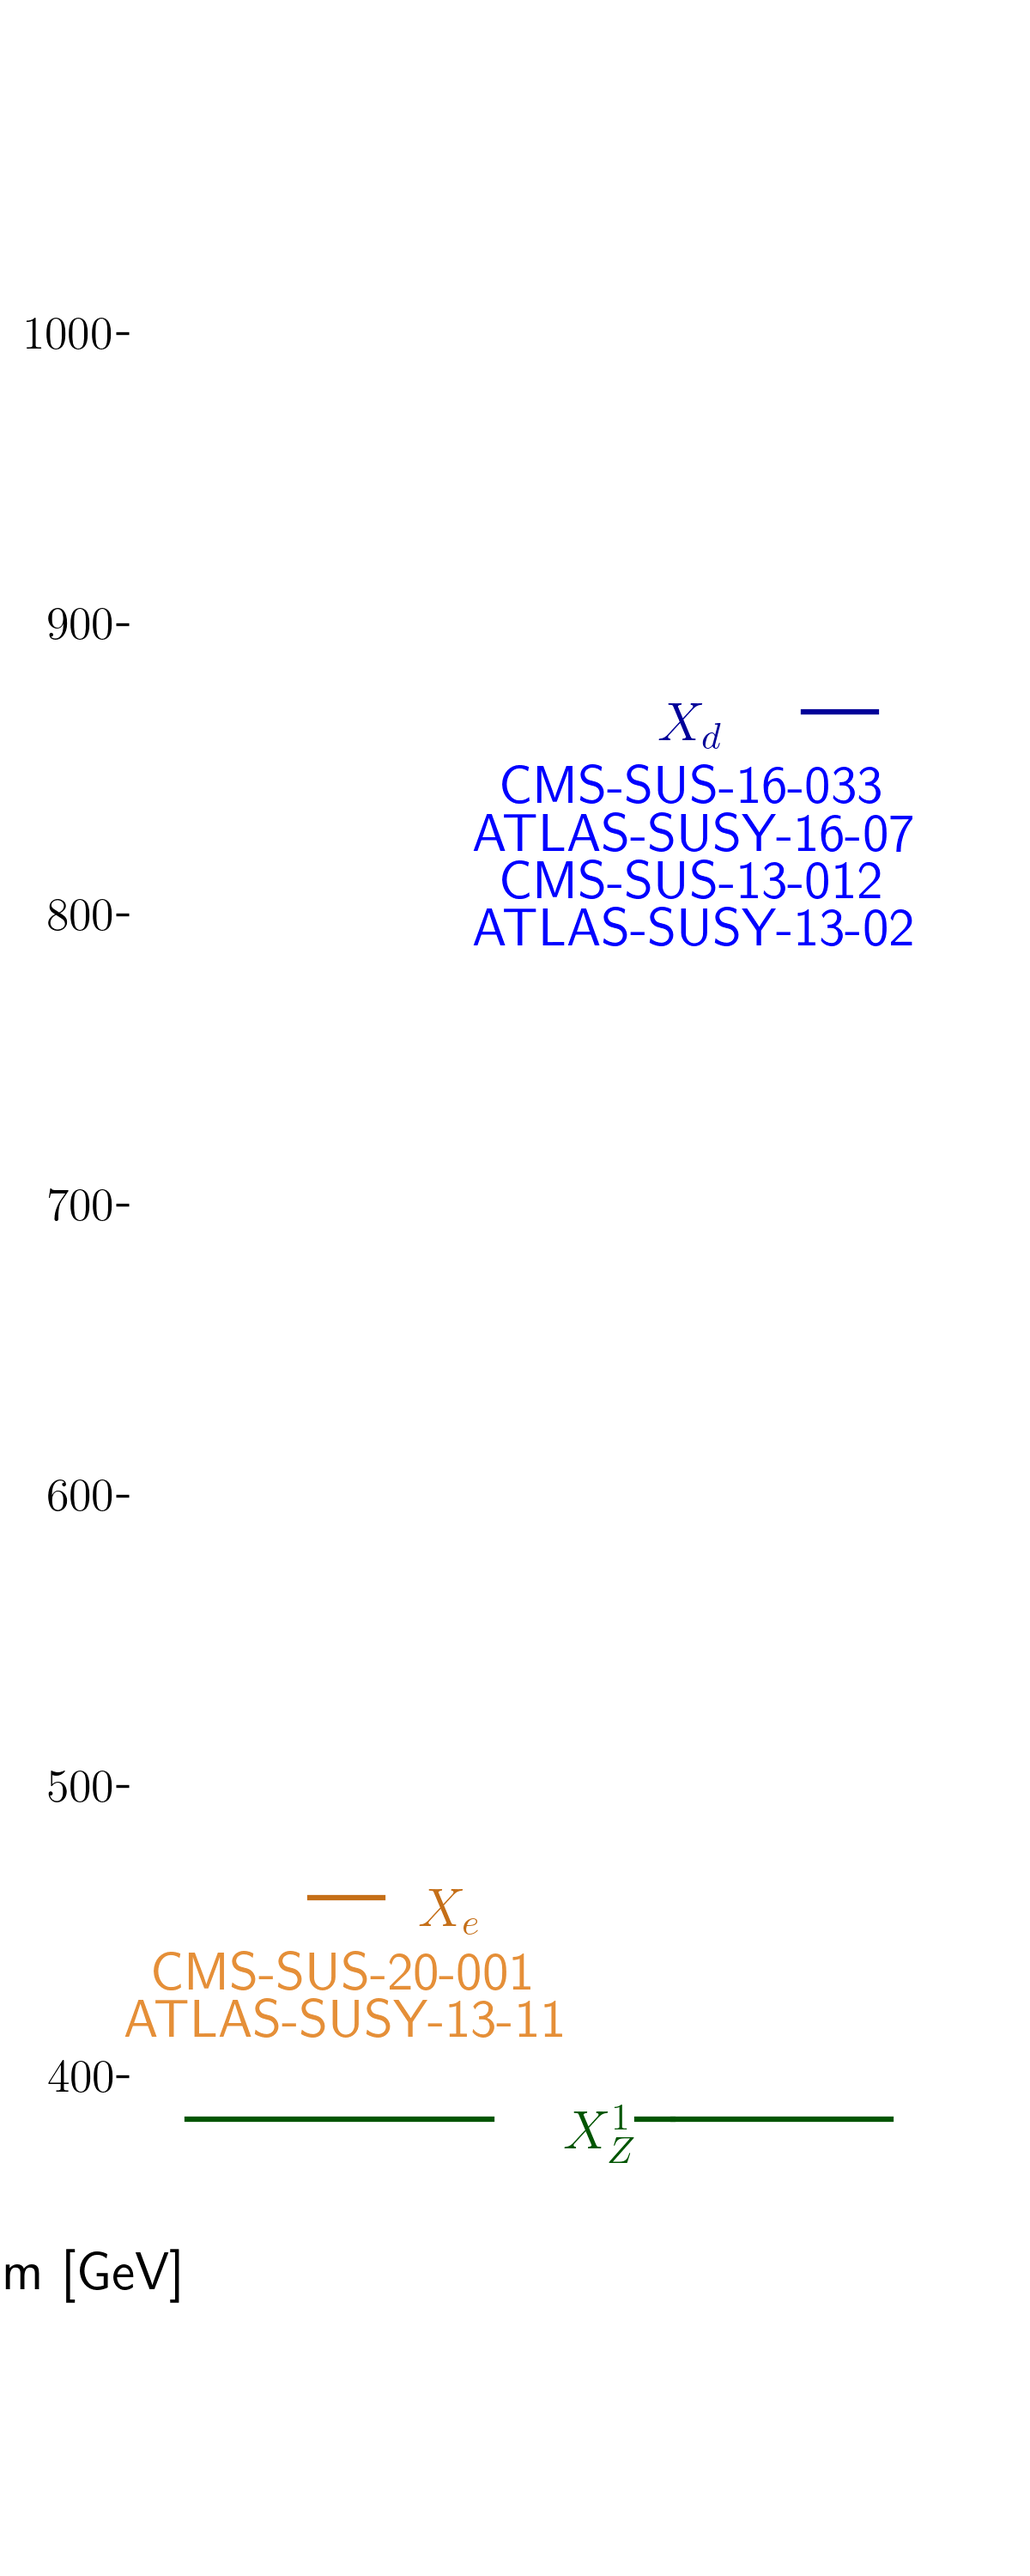
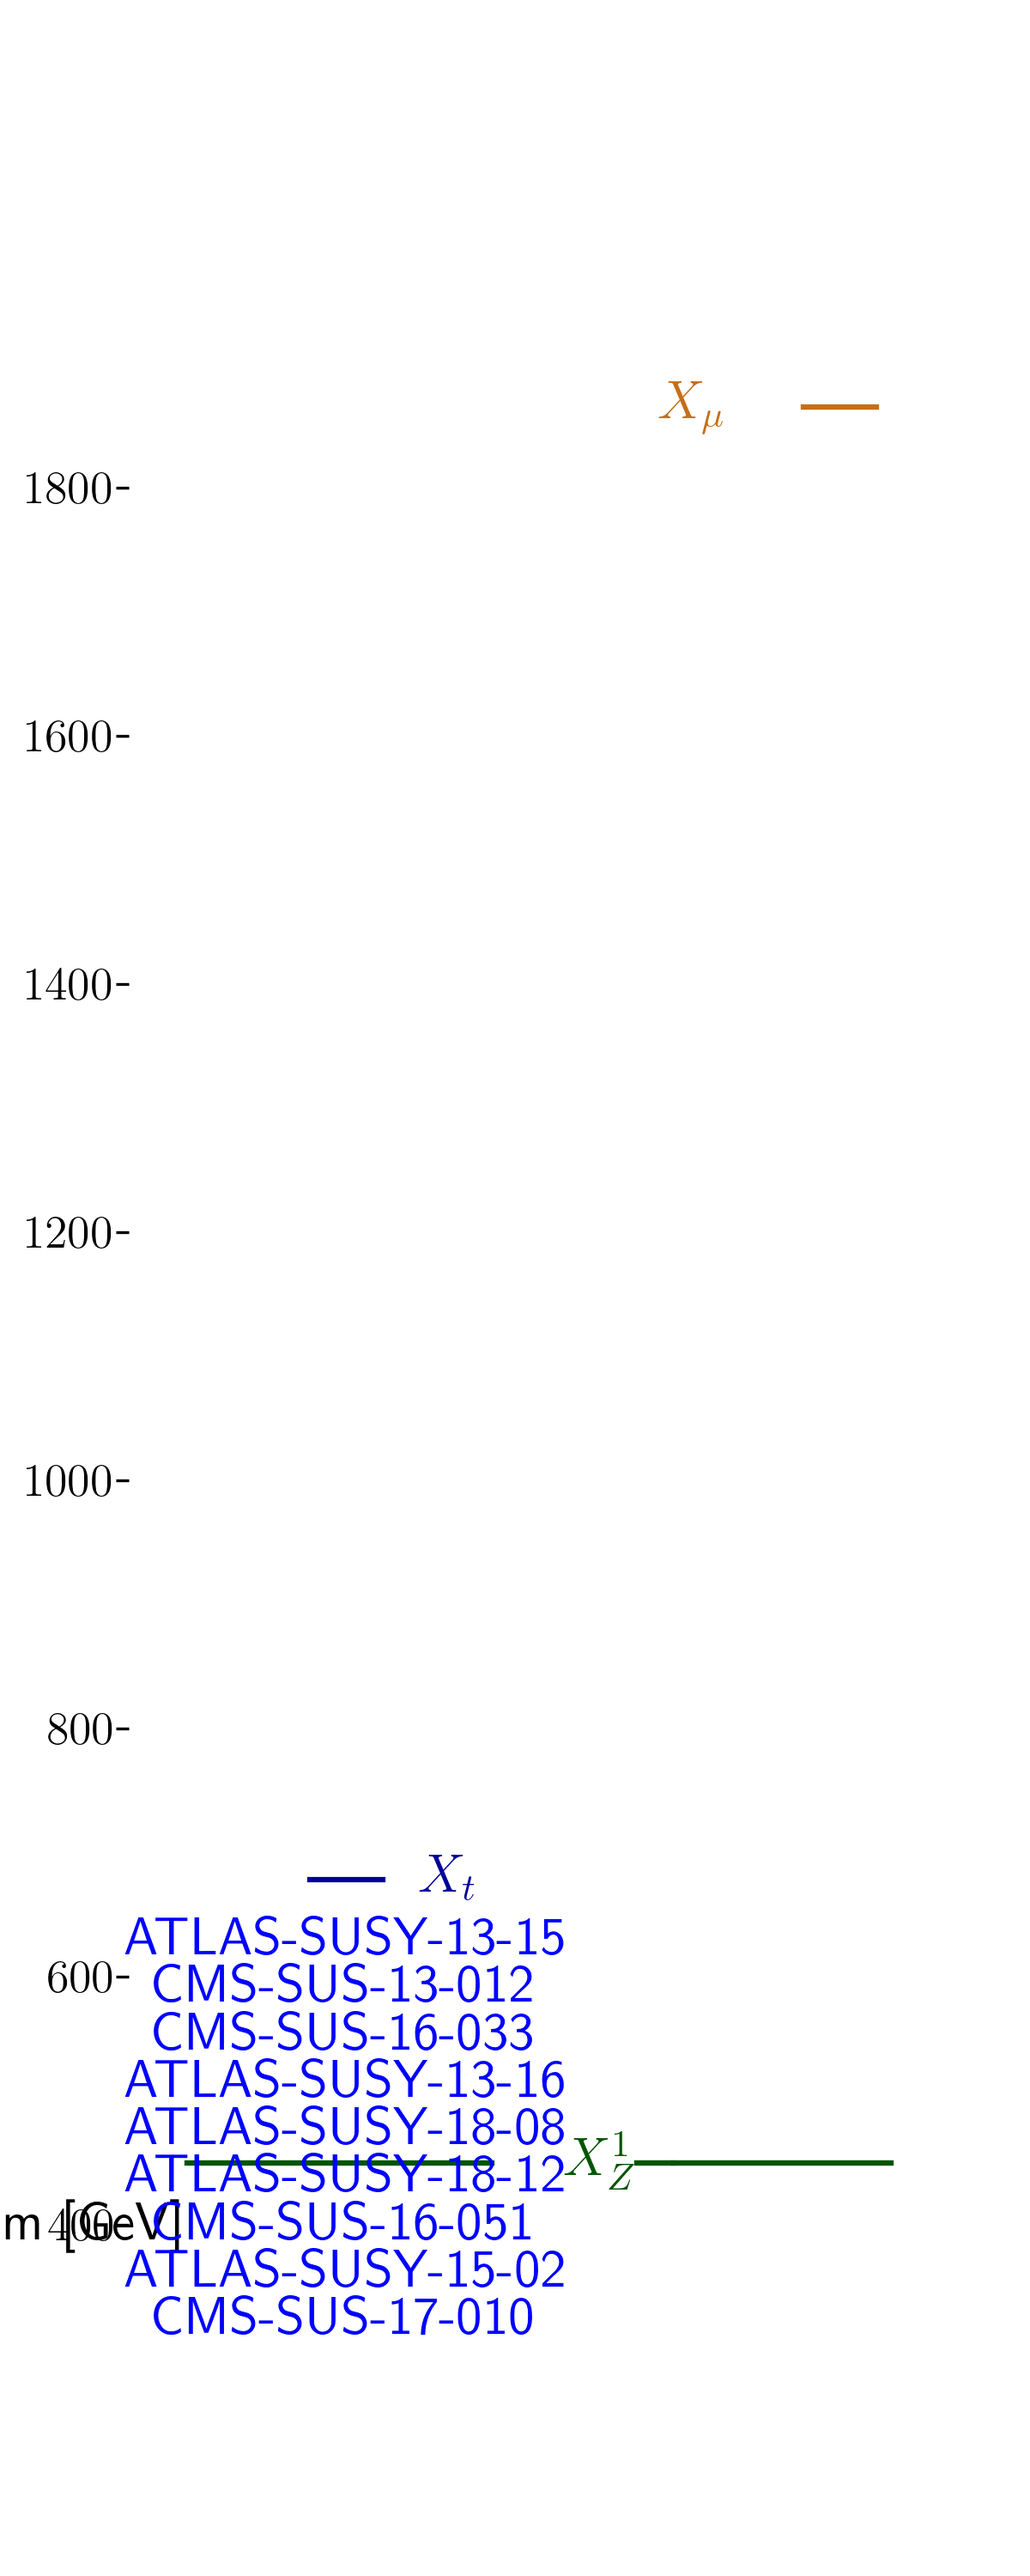
automated update by plotHiscore.py to /home/walten/git/smodels.github.io/protomodels

diff --git a/protomodels/latest/index.html b/protomodels/latest/index.html
@@ -1,31 +1,34 @@
 <html>
 <body>
 <center>
-<table><td><h1>Current best protomodel: <i>K</i>=180.58</h1><td><img height=60px src=https://smodels.github.io/pics/banner.png></table>
+<table><td><h1>Current best protomodel: <i>K</i>=1.16, <i>Z</i>=2.10</h1><td><img height=60px src=https://smodels.github.io/protomodels/logos/protomodel_lego.png></table>
 </center>
-<b><a href=./hiscore.slha>ProtoModel</a> <a href=./pmodel.py>(dict)</a> produced with <a href=https://smodels.github.io/docs/Validation230>database v2.3.0</a>, combination strategy <a href=./matrix_aggressive.png>aggressive</a> in walker 0 step 935.</b> <i>K</i> plots for: <a href=./M1000022.png?93567381>X<sup>1</sup><sub>Z</sub></a>, <a href=./M1000001.png?93567381>X<sub>d</sub></a>, <a href=./M1000011.png?93567381>X<sub>e</sub></a>. HPD plots for: <a href=./llhd1000001.png?93567381>X<sub>d</sub></a>, <a href=./llhd1000011.png?93567381>X<sub>e</sub></a>SSM plots for: <br>
+<b><a href=./hiscore.slha>ProtoModel</a> <a href=./pmodel.py>(dict)</a> produced with <a href=https://smodels.github.io/docs/Validation230>database v2.3.0</a>, combination strategy <a href=./matrix_aggressive.png>aggressive</a> in walker 0 step 1.</b> <i>K</i> plots for: <a href=./M1000022.png?93569701>X<sup>1</sup><sub>Z</sub></a>, <a href=./M1000013.png?93569701>X<sub>&mu;</sub></a>, <a href=./M1000006.png?93569701>X<sub>t</sub></a>. HPD plots for: <a href=./llhd1000013.png?93569701>X<sub>&mu;</sub></a>, <a href=./llhd1000006.png?93569701>X<sub>t</sub></a>SSM plots for: <a href=./ssm_-1000006_1000006.png?93569701>(x&#772;<sub>t</sub>,X<sub>t</sub>)</a><br>
 <table width=80%>
 <tr><td>
-<br><b>20 predictions available. Highest r values are:</b><br><ul>
-<li><a href=https://atlas.web.cern.ch/Atlas/GROUPS/PHYSICS/PAPERS/SUSY-2018-32/>ATLAS-SUSY-2018-32</a>:TSlepSlep r=1.30, r<sub>exp</sub>=N/A<br>
-<li><a href=http://cms-results.web.cern.ch/cms-results/public-results/publications/SUS-19-006/index.html>CMS-SUS-19-006</a>:T2 r=1.19, r<sub>exp</sub>=1.05<br>
-<li><a href=https://atlas.web.cern.ch/Atlas/GROUPS/PHYSICS/PAPERS/SUSY-2018-22/>ATLAS-SUSY-2018-22</a>:T2 r=1.16, r<sub>exp</sub>=N/A<br>
-<li><a href=http://cms-results.web.cern.ch/cms-results/public-results/publications/SUS-16-033/index.html>CMS-SUS-16-033</a>:T2 r=1.11, r<sub>exp</sub>=0.78<br>
-<li><a href=http://cms-results.web.cern.ch/cms-results/public-results/publications/SUS-19-006/index.html>CMS-SUS-19-006-agg</a>:T2 r=1.02, r<sub>exp</sub>=1.00<br>
+<br><b>29 predictions available. Highest r values are:</b><br><ul>
+<li><a href=http://cms-results.web.cern.ch/cms-results/public-results/publications/SUS-19-006/index.html>CMS-SUS-19-006-agg</a>:T2tt r=1.32, r<sub>exp</sub>=0.64<br>
+<li><a href=http://cms-results.web.cern.ch/cms-results/public-results/publications/SUS-20-002/index.html>CMS-SUS-20-002</a>:T2tt r=1.24, r<sub>exp</sub>=0.99<br>
+<li><a href=http://cms-results.web.cern.ch/cms-results/public-results/publications/SUS-19-006/index.html>CMS-SUS-19-006</a>:T2tt r=0.94, r<sub>exp</sub>=0.52<br>
+<li><a href=http://cms-results.web.cern.ch/cms-results/public-results/publications/SUS-19-010/index.html>CMS-SUS-19-010</a>:T2tt r=0.89, r<sub>exp</sub>=0.69<br>
+<li><a href=http://cms-results.web.cern.ch/cms-results/public-results/publications/SUS-19-009/index.html>CMS-SUS-19-009</a>:T2tt r=0.55, r<sub>exp</sub>=0.59<br>
 </ul>
 <td><br><b>K values without analyses: (contribution)</b><br>
 <ul>
-<li> <a href=https://atlas.web.cern.ch/Atlas/GROUPS/PHYSICS/PAPERS/SUSY-2013-11/>ATLAS-SUSY-2013-11</a>: 260.66 (37%)
-<li> <a href=https://atlas.web.cern.ch/Atlas/GROUPS/PHYSICS/PAPERS/SUSY-2013-02/>ATLAS-SUSY-2013-02</a>: 260.56 (37%)
-<li> <a href=https://twiki.cern.ch/twiki/bin/view/CMSPublic/PhysicsResultsSUS13012>CMS-SUS-13-012</a>: 260.01 (37%)
-<li> <a href=http://cms-results.web.cern.ch/cms-results/public-results/publications/SUS-16-033/index.html>CMS-SUS-16-033</a>: 259.67 (37%)
-<li> <a href=https://atlas.web.cern.ch/Atlas/GROUPS/PHYSICS/PAPERS/SUSY-2016-07/>ATLAS-SUSY-2016-07</a>: 256.09 (35%)
-<li> <a href=http://cms-results.web.cern.ch/cms-results/public-results/publications/SUS-20-001/index.html>CMS-SUS-20-001</a>: 2.51 (-82%)
-<td><img width=600px src=./texdoc.png?1686567381>
-<br><font size=-1>Last updated: Mon Jun 12 12:56:21 2023</font>
+<li> <a href=http://cms-results.web.cern.ch/cms-results/public-results/publications/SUS-16-051/index.html>CMS-SUS-16-051</a>: 7.12 (13%)
+<li> <a href=http://cms-results.web.cern.ch/cms-results/public-results/publications/SUS-17-010>CMS-SUS-17-010</a>: 7.12 (13%)
+<li> <a href=http://cms-results.web.cern.ch/cms-results/public-results/publications/SUS-16-033/index.html>CMS-SUS-16-033</a>: 6.97 (13%)
+<li> <a href=https://twiki.cern.ch/twiki/bin/view/CMSPublic/PhysicsResultsSUS13012>CMS-SUS-13-012</a>: 6.95 (13%)
+<li> <a href=https://atlas.web.cern.ch/Atlas/GROUPS/PHYSICS/PAPERS/SUSY-2013-16/>ATLAS-SUSY-2013-16</a>: 6.77 (13%)
+<li> <a href=https://atlas.web.cern.ch/Atlas/GROUPS/PHYSICS/PAPERS/SUSY-2013-15/>ATLAS-SUSY-2013-15</a>: 6.71 (12%)
+<li> <a href=https://atlas.web.cern.ch/Atlas/GROUPS/PHYSICS/PAPERS/SUSY-2018-08/>ATLAS-SUSY-2018-08</a>: 5.08 (9%)
+<li> <a href=https://atlas.web.cern.ch/Atlas/GROUPS/PHYSICS/PAPERS/SUSY-2018-12/>ATLAS-SUSY-2018-12</a>: 4.74 (8%)
+<li> <a href=http://atlas.web.cern.ch/Atlas/GROUPS/PHYSICS/PAPERS/SUSY-2015-02/>ATLAS-SUSY-2015-02</a>: 3.65 (6%)
+<td><img width=600px src=./texdoc.png?1686569701>
+<br><font size=-1>Last updated: Mon Jun 12 13:35:01 2023</font>
 </table><table style="width:80%">
-<td width=45%><img height=580px src=./ruler.png?1686567381><td width=55%><img height=380px src=./decays.png?1686567381>
-<font size=-3><iframe type="text/html" height="220px" width="100%s" frameborder="0" src="./rawnumbers.html?1686567381"></iframe></font>
+<td width=45%><img height=580px src=./ruler.png?1686569701><td width=55%><img height=380px src=./decays.png?1686569701>
+<font size=-3><iframe type="text/html" height="230px" width="100%s" frameborder="0" src="./rawnumbers.html?1686569701"></iframe></font>
 </table>
 </body>
 </html>

diff --git a/protomodels/latest/rawnumbers.html b/protomodels/latest/rawnumbers.html
@@ -1,10 +1,13 @@
 <table>
 <tr><th>Analysis Name</th><th>Type</th><th>Dataset</th><th>Topos</th><th>Observed</th><th>Expected</th><th>Approx &sigma;</th><th>Particles</th>
 </tr>
-<tr><td><a href=https://atlas.web.cern.ch/Atlas/GROUPS/PHYSICS/PAPERS/SUSY-2013-02/>ATLAS-SUSY-2013-02</a></td><td>em</td> <td>SR6jtp</td><td>T2</td><td>6</td><td>4.9 +/- 1.6</td><td style="text-align:right">0.4 &sigma;</td><td style="text-align:right">X<sub>d</sub></td></tr>
-<tr><td><a href=https://atlas.web.cern.ch/Atlas/GROUPS/PHYSICS/PAPERS/SUSY-2013-11/>ATLAS-SUSY-2013-11</a></td><td>em</td> <td>Zjets</td><td>TSlepSlep</td><td>1</td><td>1.4 +/- 0.6</td><td style="text-align:right">-0.3 &sigma;</td><td style="text-align:right">X<sub>e</sub></td></tr>
-<tr><td><a href=https://atlas.web.cern.ch/Atlas/GROUPS/PHYSICS/PAPERS/SUSY-2016-07/>ATLAS-SUSY-2016-07</a></td><td>em</td> <td>2j_Meff_1200</td><td>T2</td><td>611</td><td>526 +/- 31</td><td style="text-align:right">2.2 &sigma;</td><td style="text-align:right">X<sub>d</sub></td></tr>
-<tr><td><a href=https://twiki.cern.ch/twiki/bin/view/CMSPublic/PhysicsResultsSUS13012>CMS-SUS-13-012</a></td><td>ul</td> <td>-</td><td>T2</td><td> 31.2 fb </td><td> 18.8 fb</td><td style="text-align:right">1.3 &sigma;</td><td style="text-align:right">X<sub>d</sub></td></tr>
-<tr><td><a href=http://cms-results.web.cern.ch/cms-results/public-results/publications/SUS-16-033/index.html>CMS-SUS-16-033</a></td><td>em</td> <td>SR2_Njet3_Nb0_H ...</td><td>T2</td><td>71</td><td>55.2 +/- 11.5</td><td style="text-align:right">1.2 &sigma;</td><td style="text-align:right">X<sub>d</sub></td></tr>
-<tr><td><a href=http://cms-results.web.cern.ch/cms-results/public-results/publications/SUS-20-001/index.html>CMS-SUS-20-001</a></td><td>ul</td> <td>-</td><td>TSlepSlep</td><td> 150.3 fb </td><td> 7.6 fb</td><td style="text-align:right">36.7 &sigma;</td><td style="text-align:right">X<sub>e</sub></td></tr>
+<tr><td><a href=https://atlas.web.cern.ch/Atlas/GROUPS/PHYSICS/PAPERS/SUSY-2013-15/>ATLAS-SUSY-2013-15</a></td><td>em</td> <td>tNboost</td><td>T2tt</td><td>5</td><td>3.3 +/- 0.7</td><td style="text-align:right">0.9 &sigma;</td><td style="text-align:right">X<sub>t</sub></td></tr>
+<tr><td><a href=https://atlas.web.cern.ch/Atlas/GROUPS/PHYSICS/PAPERS/SUSY-2013-16/>ATLAS-SUSY-2013-16</a></td><td>em</td> <td>SRA4</td><td>T2tt</td><td>4</td><td>2.4 +/- 0.7</td><td style="text-align:right">0.9 &sigma;</td><td style="text-align:right">X<sub>t</sub></td></tr>
+<tr><td><a href=http://atlas.web.cern.ch/Atlas/GROUPS/PHYSICS/PAPERS/SUSY-2015-02/>ATLAS-SUSY-2015-02</a></td><td>em</td> <td>SR1</td><td>T2tt</td><td>12</td><td>5.5 +/- 0.72</td><td style="text-align:right">2.6 &sigma;</td><td style="text-align:right">X<sub>t</sub></td></tr>
+<tr><td><a href=https://atlas.web.cern.ch/Atlas/GROUPS/PHYSICS/PAPERS/SUSY-2018-08/>ATLAS-SUSY-2018-08</a></td><td>em</td> <td>SRSF140</td><td>T2tt</td><td>9</td><td>5.1 +/- 0.9</td><td style="text-align:right">1.6 &sigma;</td><td style="text-align:right">X<sub>t</sub></td></tr>
+<tr><td><a href=https://atlas.web.cern.ch/Atlas/GROUPS/PHYSICS/PAPERS/SUSY-2018-12/>ATLAS-SUSY-2018-12</a></td><td>em</td> <td>SRBTT</td><td>T2tt</td><td>67</td><td>46 +/- 7</td><td style="text-align:right">2.2 &sigma;</td><td style="text-align:right">X<sub>t</sub></td></tr>
+<tr><td><a href=https://twiki.cern.ch/twiki/bin/view/CMSPublic/PhysicsResultsSUS13012>CMS-SUS-13-012</a></td><td>em</td> <td>6NJet8_500HT800 ...</td><td>T2tt</td><td>9</td><td>0.8 +/- 3.3</td><td style="text-align:right">2.4 &sigma;</td><td style="text-align:right">X<sub>t</sub></td></tr>
+<tr><td><a href=http://cms-results.web.cern.ch/cms-results/public-results/publications/SUS-16-033/index.html>CMS-SUS-16-033</a></td><td>em</td> <td>SR2_Njet3_Nb0_H ...</td><td>T2tt</td><td>71</td><td>55.2 +/- 11.5</td><td style="text-align:right">1.2 &sigma;</td><td style="text-align:right">X<sub>t</sub></td></tr>
+<tr><td><a href=http://cms-results.web.cern.ch/cms-results/public-results/publications/SUS-16-051/index.html>CMS-SUS-16-051</a></td><td>ul</td> <td>-</td><td>T2tt</td><td> 146.4 fb </td><td> 168.7 fb</td><td style="text-align:right">-0.3 &sigma;</td><td style="text-align:right">X<sub>t</sub></td></tr>
+<tr><td><a href=http://cms-results.web.cern.ch/cms-results/public-results/publications/SUS-17-010>CMS-SUS-17-010</a></td><td>ul</td> <td>-</td><td>T2tt</td><td> 241.4 fb </td><td> 250.7 fb</td><td style="text-align:right">-0.1 &sigma;</td><td style="text-align:right">X<sub>t</sub></td></tr>
 </table>

diff --git a/protomodels/latest/pmodel.py b/protomodels/latest/pmodel.py
@@ -1,1 +1,1 @@
-{'masses': {1000022: 375.386, 1000011: 451.505, 1000001: 859.751}, 'ssmultipliers': {(1000022, 1000022): 1.596, (1000011, 1000011): 263.464, (-1000011, 1000011): 263.464, (-1000011, -1000011): 1.041, (1000011, 1000022): 1.175, (-1000011, 1000022): 0.905, (1000001, 1000001): 0.608, (-1000001, 1000001): 1.2, (-1000001, -1000001): 1.269, (1000001, 1000022): 1.158, (-1000001, 1000022): 1.2, (1000001, 1000011): 0.9, (-1000001, 1000011): 0.9, (-1000011, 1000001): 0.9, (-1000011, -1000001): 0.9}, 'decays': {1000022: {}, 1000011: {(1000022, 11): 1.0}, 1000001: {(1000022, 1): 1.0}}, 'timestamp': 'Mon Jun 12 12:56:19 2023', 'Z': 13.578, 'K': 180.575, 'walkerid': 0, 'step': 935, 'codever': '2.0', 'dbver': '2.3.0'}
+{'masses': {1000022: 439.922, 1000013: 1854.866, 1000006: 668.142}, 'ssmultipliers': {(1000022, 1000022): 0.536, (1000013, 1000013): 0.536, (-1000013, 1000013): 0.536, (-1000013, -1000013): 0.536, (1000013, 1000022): 0.536, (-1000013, 1000022): 0.536, (1000006, 1000006): 0.536, (-1000006, 1000006): 0.536, (-1000006, -1000006): 0.536, (1000006, 1000022): 0.536, (-1000006, 1000022): 0.536, (1000006, 1000013): 0.536, (-1000006, 1000013): 0.536, (-1000013, 1000006): 0.536, (-1000013, -1000006): 0.536}, 'decays': {1000022: {}, 1000013: {(1000022, 13): 1.0}, 1000006: {(1000022, 6): 1.0}}, 'timestamp': 'Mon Jun 12 13:34:56 2023', 'Z': 2.1, 'K': 1.158, 'walkerid': 0, 'step': 1, 'codever': '2.0', 'dbver': '2.3.0'}
